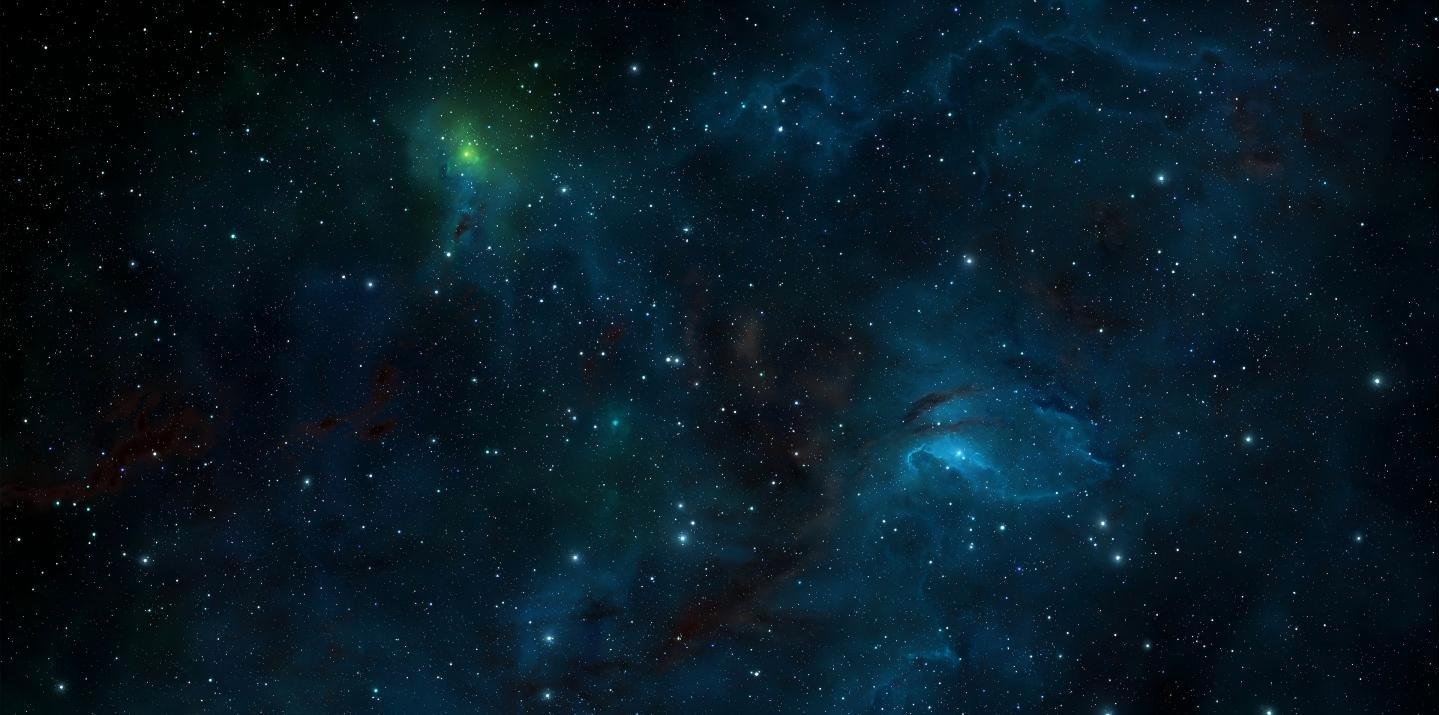
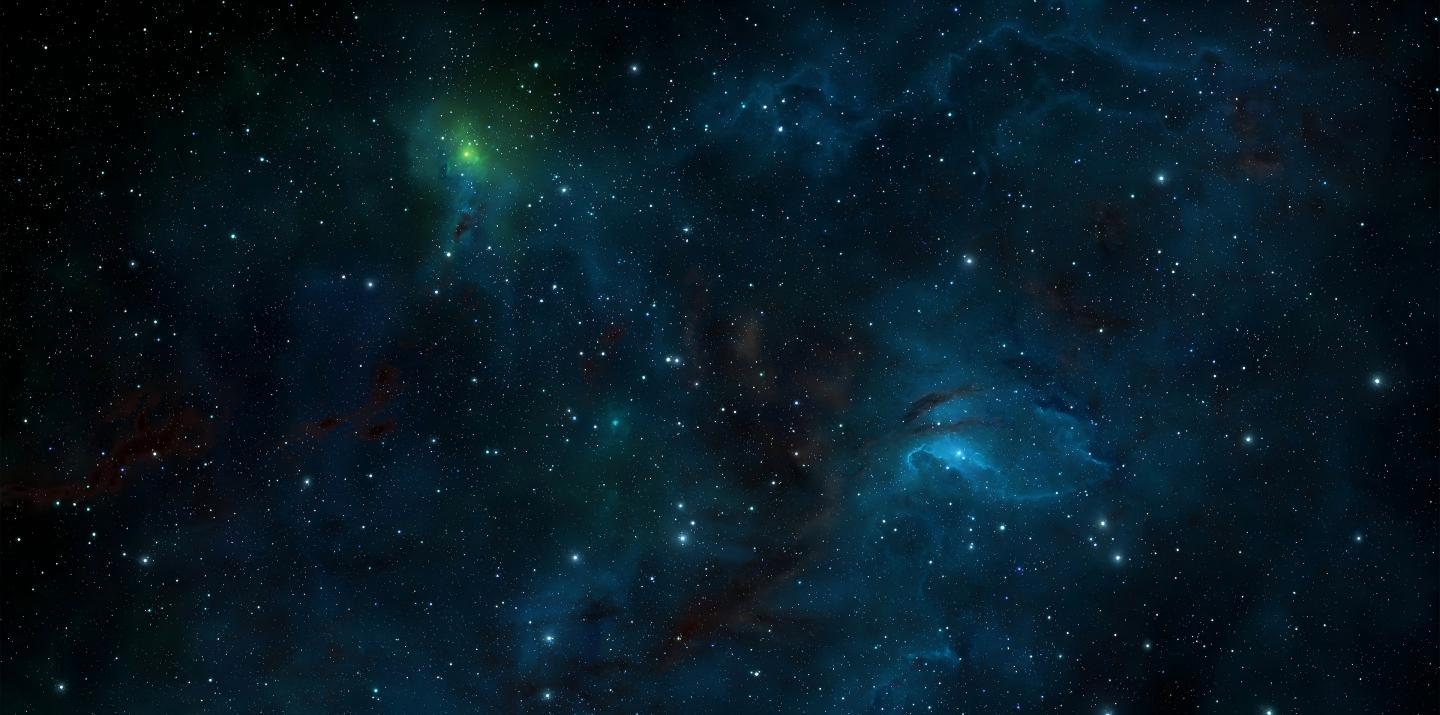
feat(第二张): 删原始大图 + 背景调暗 + 去掉蓝巨星光晕/黑洞环 + 细调入口(Alt+T)
1. 原始 PNG 全部删除
   static/planet/ 只剩页面真正用到的 7 个文件,合计 1064KB(原来约 12MB):
   bg.jpg(123KB,直接用原图另存的名字,没有二次压缩)
   sun 334 / cold 161 / earth 157 / hot 138 / gas 135 / blackhole 16 KB

2. 背景调暗:不动图片文件,压一层暗色遮罩
   新参数 [params.intro.solar] bg_dim(默认 0.45,0 = 原样,1 = 全黑)
   → partial 写成 .solar-art 的 --bg-dim,遮罩是中心浅、四角深的径向渐变

3. 去掉两个特效
   · 蓝巨星:光晕来自 .solar-sun 的 @keyframes 动画(动画优先级高于普通声明,
     只写 box-shadow:none 压不住)→ has-tex 时连 animation 一起关掉,box-shadow 归 none
   · 黑洞:那是 CSS 画的吸积环(.solar-planet::after)→ 贴图版统一关掉所有 CSS 装饰
     (::before 虚线锁定环、::after 吸积环、皮肤、星环)
   · 顺带:贴图不再常驻 drop-shadow(保持贴图原样),只在磁吸锁定时才亮一下作为反馈

4. 细调入口(每个行星的位置 xy / 大小 w / 旋转 rot,以及恒星 x y w)
   · Alt + T 随时开关(网址加 ?tune 也会自动打开)—— 平时不产生任何 DOM
   · 每行 = 四根滑条 + 四个数字框:滑条步长 0.001(1440px 面板上约 1.4px),
     数字框可以直接敲精确值,敲完立刻生效;方向键也能继续微调
   · 「复制 TOML」生成能直接贴回 hugo.toml 的整段(solar + 五颗行星,含 tex/kind)

验收:tools/verify/tune-check.mjs
- static/planet 合计 1064KB ✓ 恒星 box-shadow none ✓ 黑洞环 display:none ✓
- 贴图 filter none ✓ Alt+T 打开面板(6 行 / 23 个数字框)✓
- 数字框输入 0.186 → 行星宽度 173 → 268px(=1440×0.186)✓ 页内零报错 ✓

diff --git a/assets/js/page-solar-tune.js b/assets/js/page-solar-tune.js
@@ -1,23 +1,32 @@
 /* ============================================================
-   行星大小 / 位置 微调面板(page-solar.js 的配套,只有 ?tune 时才创建)
+   行星微调面板(page-solar.js 的配套):位置 x/y、大小 w、旋转 rot
    ─────────────────────────────────────────────────────────────
-   用途:贴图版的构图靠眼睛调最准,所以给一个滑条面板:
-     · 网址后面加 ?tune    → 面板出现(线上也能用:https://tuagfey.com/?tune)
-     · 拖滑条 → 实时重排(写 window.__solarTune,page-solar.js 会读)
-     · 「复制 TOML」→ 生成可以直接贴进 hugo.toml 的片段
-   面板只在 ?tune 时存在,平时零开销、零样式影响。
+   两种打开方式:
+     · 网址加 ?tune            → 自动打开(线上也能用:https://tuagfey.com/?tune)
+     · 按 Alt + T              → 随时开关(平时不加载任何 DOM,零影响)
+   每一行 = 一个星体,四根滑条 + 一个可输入的数字框:
+     · 滑条步长 0.001(1440px 宽的面板上约 1.4px),方向键还能再微调
+     · 数字框可以直接敲精确值,敲完立刻生效
+   点「复制 TOML」→ 生成能直接贴回 hugo.toml 的片段(含恒星那三行)
+   值写在 window.__solarTune,page-solar.js 每次重排都会读它。
    ============================================================ */
 (function () {
   "use strict";
 
-  if (location.search.indexOf("tune") < 0) return;
-
+  var WANT = location.search.indexOf("tune") >= 0;
   var FIELDS = [
-    { f: "x", label: "x", min: 0, max: 1, step: 0.002 },
-    { f: "y", label: "y", min: 0, max: 1, step: 0.002 },
-    { f: "w", label: "宽", min: 0.02, max: 0.6, step: 0.002 },
-    { f: "rot", label: "旋转", min: -180, max: 180, step: 1 }
+    { f: "x", label: "x", min: 0, max: 1, step: 0.001, dflt: 0.5 },
+    { f: "y", label: "y", min: 0, max: 1, step: 0.001, dflt: 0.5 },
+    { f: "w", label: "宽", min: 0.02, max: 0.7, step: 0.001, dflt: 0.12 },
+    { f: "rot", label: "旋转", min: -180, max: 180, step: 0.5, dflt: 0 }
   ];
+  var SUN_FIELDS = [
+    { f: "x", label: "x", min: 0, max: 1, step: 0.001, dflt: 0.19 },
+    { f: "y", label: "y", min: 0, max: 1, step: 0.001, dflt: 0.34 },
+    { f: "w", label: "宽", min: 0.05, max: 0.7, step: 0.001, dflt: 0.26 }
+  ];
+
+  var panel = null;
 
   function el(tag, cls, html) {
     var e = document.createElement(tag);
@@ -25,133 +34,142 @@
     if (html != null) e.innerHTML = html;
     return e;
   }
+  function attrNum(node, name, dflt) {
+    if (!node) return dflt;
+    var v = parseFloat(node.getAttribute(name));
+    return isFinite(v) ? v : dflt;
+  }
+  function fmt(v) { return (Math.round(v * 1000) / 1000).toString(); }
+  function api() { return window.CDPages && window.CDPages.get ? window.CDPages.get("growth") : null; }
 
-  function mount() {
+  function build() {
+    var a = api();
     var solar = document.querySelector("[data-solar]");
-    var api = window.CDPages && window.CDPages.get ? window.CDPages.get("growth") : null;
-    if (!solar || !api) { setTimeout(mount, 400); return; }
+    if (!a || !solar) return null;
 
     var TUNE = window.__solarTune || (window.__solarTune = {});
-    var panel = el("div", "solar-tune");
+    var p = el("div", "solar-tune");
     var head = el("div", "solar-tune__head",
-      "<b>行星微调</b><span>拖完点「复制 TOML」贴回 hugo.toml</span>");
+      "<b>行星微调</b><span>滑条 / 数字框都能改 · Alt+T 关闭</span>");
     var copyBtn = el("button", "solar-tune__btn", "复制 TOML");
     var resetBtn = el("button", "solar-tune__btn", "复位");
     head.appendChild(copyBtn);
     head.appendChild(resetBtn);
-    panel.appendChild(head);
+    p.appendChild(head);
 
     var out = el("textarea", "solar-tune__out");
     out.readOnly = true;
-    out.rows = 6;
-
+    out.rows = 7;
     var rows = [];
 
-    /* 恒星 */
-    var sunNode = api.sunNode;
-    if (sunNode) {
-      var sr = el("div", "solar-tune__row");
-      sr.appendChild(el("b", null, "★ 恒星(蓝巨星)"));
-      var sunInputs = {};
-      [["x", 0, 1, 0.002], ["y", 0, 1, 0.002], ["w", 0.05, 0.6, 0.002]].forEach(function (d) {
-        var box = el("label");
-        box.appendChild(el("i", null, d[0]));
-        var inp = document.createElement("input");
-        inp.type = "range"; inp.min = d[1]; inp.max = d[2]; inp.step = d[3];
-        inp.value = String(attr(sunNode, "data-" + d[0], d[0] === "w" ? 0.26 : 0.3));
-        inp.addEventListener("input", function () {
-          TUNE.__sun = TUNE.__sun || {};
-          TUNE.__sun[d[0]] = parseFloat(inp.value);
-          api.repaint();
-          render();
-        });
-        box.appendChild(inp);
-        box.appendChild(el("u", "val", inp.value));
-        sr.appendChild(box);
-        sunInputs[d[0]] = inp;
-      });
-      panel.appendChild(sr);
-    }
-
-    api.nodes.forEach(function (node, i) {
-      var code = node.getAttribute("data-code") || ("SS-0" + (i + 1));
-      var title = node.querySelector(".solar-title") ? node.querySelector(".solar-title").textContent.trim() : "";
+    function addRow(title, node, fields, key) {
       var row = el("div", "solar-tune__row");
-      row.appendChild(el("b", null, code + " " + title));
-      FIELDS.forEach(function (d) {
+      row.appendChild(el("b", null, title));
+      fields.forEach(function (d) {
         var box = el("label");
         box.appendChild(el("i", null, d.label));
-        var inp = document.createElement("input");
-        inp.type = "range"; inp.min = d.min; inp.max = d.max; inp.step = d.step;
-        inp.value = String(attr(node, "data-" + d.f, d.f === "w" ? 0.12 : (d.f === "rot" ? 0 : 0.5)));
-        inp.addEventListener("input", function () {
-          TUNE[code] = TUNE[code] || {};
-          TUNE[code][d.f] = parseFloat(inp.value);
-          api.repaint();
+        var cur = (TUNE[key] && isFinite(TUNE[key][d.f])) ? TUNE[key][d.f] : attrNum(node, "data-" + d.f, d.dflt);
+        var range = document.createElement("input");
+        range.type = "range"; range.min = d.min; range.max = d.max; range.step = d.step;
+        range.value = String(cur);
+        var num = document.createElement("input");
+        num.type = "number"; num.min = d.min; num.max = d.max; num.step = d.step;
+        num.value = fmt(cur);
+        function push(v) {
+          v = Math.min(d.max, Math.max(d.min, v));
+          TUNE[key] = TUNE[key] || {};
+          TUNE[key][d.f] = v;
+          range.value = String(v);
+          num.value = fmt(v);
+          api().repaint();
           render();
-        });
-        box.appendChild(inp);
-        box.appendChild(el("u", "val", inp.value));
+        }
+        range.addEventListener("input", function () { push(parseFloat(range.value)); });
+        num.addEventListener("input", function () { var v = parseFloat(num.value); if (isFinite(v)) push(v); });
+        box.appendChild(range);
+        box.appendChild(num);
         row.appendChild(box);
       });
-      panel.appendChild(row);
-      rows.push({ code: code, node: node });
-    });
-
-    panel.appendChild(out);
-    document.body.appendChild(panel);
-
-    function attr(node, name, dflt) {
-      var v = parseFloat(node.getAttribute(name));
-      return isFinite(v) ? v : dflt;
+      p.appendChild(row);
+      rows.push({ title: title, node: node, key: key, fields: fields });
     }
 
+    addRow("★ 蓝巨星", a.sunNode, SUN_FIELDS, "__sun");
+    a.nodes.forEach(function (node, i) {
+      var code = node.getAttribute("data-code") || ("SS-0" + (i + 1));
+      var t = node.querySelector(".solar-title");
+      addRow(code + " " + (t ? t.textContent.trim() : ""), node, FIELDS, code);
+    });
+
+    p.appendChild(out);
+    document.body.appendChild(p);
+
+    function val(r, f) {
+      var v = window.__solarTune[r.key] && window.__solarTune[r.key][f.f];
+      return isFinite(v) ? v : attrNum(r.node, "data-" + f.f, f.dflt);
+    }
     function render() {
       var lines = ["    [params.intro.solar]"];
-      var s = TUNE.__sun || {};
-      if (sunNode) {
-        lines.push('      sun_x = ' + num(s.x, attr(sunNode, "data-x", 0.19)));
-        lines.push('      sun_y = ' + num(s.y, attr(sunNode, "data-y", 0.34)));
-        lines.push('      sun_w = ' + num(s.w, attr(sunNode, "data-w", 0.26)));
-      }
+      lines.push('      bg = "/planet/bg.jpg"');
+      lines.push('      bg_dim = 0.45');
+      lines.push('      sun = "/planet/sun.webp"');
+      var sun = rows[0];
+      lines.push("      sun_x = " + fmt(val(sun, SUN_FIELDS[0])));
+      lines.push("      sun_y = " + fmt(val(sun, SUN_FIELDS[1])));
+      lines.push("      sun_w = " + fmt(val(sun, SUN_FIELDS[2])));
       lines.push("");
-      rows.forEach(function (r) {
-        var t = TUNE[r.code] || {};
-        lines.push("    [[params.intro.decks.growth]]   # " + (r.node.querySelector(".solar-title") || {}).textContent);
-        lines.push('      code = "' + r.code + '"');
-        lines.push("      x = " + num(t.x, attr(r.node, "data-x", 0.5)));
-        lines.push("      y = " + num(t.y, attr(r.node, "data-y", 0.5)));
-        lines.push("      w = " + num(t.w, attr(r.node, "data-w", 0.12)));
-        if (t.rot || attr(r.node, "data-rot", 0)) lines.push("      rot = " + num(t.rot, attr(r.node, "data-rot", 0)));
+      rows.slice(1).forEach(function (r) {
+        var code = r.key;
+        lines.push("    [[params.intro.decks.growth]]   # " + r.title);
+        lines.push('      code = "' + code + '"');
+        lines.push('      tex = "' + (r.node.getAttribute("data-tex") || "") + '"');
+        FIELDS.forEach(function (f) { lines.push("      " + f.f + " = " + fmt(val(r, f))); });
+        var kind = (r.node.className.match(/solar-node--(\w+)/) || [])[1];
+        if (kind) lines.push('      kind = "' + kind + '"');
         lines.push("");
       });
       out.value = lines.join("\n");
     }
-    function num(v, dflt) { return (isFinite(v) ? v : dflt).toFixed(3).replace(/0+$/, "").replace(/\.$/, ""); }
 
     copyBtn.addEventListener("click", function () {
       out.select();
+      var done = function () { copyBtn.textContent = "已复制 ✓"; setTimeout(function () { copyBtn.textContent = "复制 TOML"; }, 1500); };
       try {
-        navigator.clipboard.writeText(out.value);
-        copyBtn.textContent = "已复制 ✓";
-      } catch (e) {
-        document.execCommand("copy");
-        copyBtn.textContent = "已复制 ✓";
-      }
-      setTimeout(function () { copyBtn.textContent = "复制 TOML"; }, 1500);
+        navigator.clipboard.writeText(out.value).then(done, function () { document.execCommand("copy"); done(); });
+      } catch (e) { document.execCommand("copy"); done(); }
     });
     resetBtn.addEventListener("click", function () {
-      for (var k in TUNE) delete TUNE[k];
-      panel.remove();
-      mount();
-      api.repaint();
+      for (var k in window.__solarTune) delete window.__solarTune[k];
+      close();
+      open();
     });
 
     render();
-    api.repaint();
-    console.log("[solar-tune] 已开启微调面板;window.__solarTune 里是当前值");
+    api().repaint();
+    return p;
   }
 
-  if (document.readyState === "loading") document.addEventListener("DOMContentLoaded", mount);
-  else mount();
+  function open() {
+    if (panel) return;
+    panel = build();
+    if (!panel) { panel = null; setTimeout(function () { if (WANT) open(); }, 400); }
+    else console.log("[solar-tune] 微调面板已打开(Alt+T 可关闭);当前值在 window.__solarTune");
+  }
+  function close() {
+    if (!panel) return;
+    panel.remove();
+    panel = null;
+  }
+  function toggle() { panel ? close() : open(); }
+
+  document.addEventListener("keydown", function (e) {
+    if (e.altKey && (e.key === "t" || e.key === "T")) { e.preventDefault(); toggle(); }
+    else if (e.key === "Escape" && panel) close();
+  });
+
+  if (WANT) {
+    if (document.readyState === "loading") document.addEventListener("DOMContentLoaded", function () { open(); });
+    else open();
+  }
+  window.__solarTunePanel = { open: open, close: close, toggle: toggle };
 })();

diff --git a/assets/css/pages.css b/assets/css/pages.css
@@ -791,11 +791,24 @@ body.statusbar-hidden .intro-panel.is-page {
    底图铺满,CSS 画的太阳/星体全部让位;
    五个磁吸热区还在(看不见,但光标锁上去照样弹 HUD 卡片)*/
 .solar-art {
+    /* 背景图整体暗化:数值越大越暗(由 hugo.toml 的 bg_dim 写进来)*/
+    --bg-dim: 0.45;
     position: absolute;
     inset: 0;
     background-size: cover;
     background-position: center;
     background-repeat: no-repeat;
+}
+
+/* 暗化用一层遮罩,不动图片文件本身;想更暗就调 bg_dim */
+.solar-art::after {
+    content: "";
+    position: absolute;
+    inset: 0;
+    background: radial-gradient(120% 100% at 50% 45%,
+            rgba(2, 5, 12, calc(var(--bg-dim) * 0.72)) 0%,
+            rgba(1, 3, 9, var(--bg-dim)) 100%);
+    pointer-events: none;
 }
 
 .solar.has-art {
@@ -825,7 +838,7 @@ body.statusbar-hidden .intro-panel.is-page {
     height: auto;
     pointer-events: none;
     transform-origin: 50% 50%;
-    filter: drop-shadow(0 0 18px rgba(120, 180, 255, 0.22));
+    /* 平时不加外发光(用户要求保持贴图原样),只在磁吸锁定时才亮 */
 }
 
 /* 有贴图时,CSS 画的那套皮肤/星环/高光全部让位 */
@@ -845,20 +858,16 @@ body.statusbar-hidden .intro-panel.is-page {
         drop-shadow(0 0 26px color-mix(in srgb, var(--intro-accent) 40%, transparent));
 }
 
-/* 恒星贴图:自己带光晕,这里只补一层柔光垫在后面 */
+/* 恒星贴图:贴图自己就是完整的星体,这里把 CSS 画的那套全部关掉。
+   ★ 注意 animation 必须一起关:上面 .solar-sun 的光晕是 @keyframes 动画在动的,
+     动画优先级高于普通声明,只写 box-shadow:none 压不住 */
 .solar-sun.has-tex {
     background: none;
     box-shadow: none;
+    animation: none;
 }
 
-.solar-sun.has-tex::before {
-    content: "";
-    position: absolute;
-    inset: -38%;
-    border-radius: 50%;
-    background: radial-gradient(circle, rgba(150, 205, 255, 0.34) 0%, rgba(110, 170, 255, 0.16) 42%, rgba(90, 140, 255, 0) 72%);
-    pointer-events: none;
-}
+/* 蓝巨星贴图自带光,不再额外加光晕(用户要求去掉)*/
 
 .solar-sun.has-tex::after {
     display: none;
@@ -884,7 +893,7 @@ body.statusbar-hidden .intro-panel.is-page {
     right: 12px;
     top: 12px;
     z-index: 9999;
-    width: min(420px, 92vw);
+    width: min(520px, 94vw);
     max-height: 94vh;
     overflow: auto;
     padding: 10px 12px 12px;
@@ -951,7 +960,17 @@ body.statusbar-hidden .intro-panel.is-page {
 }
 
 .solar-tune__row input[type=range] {
-    width: 62px;
+    width: 56px;
+}
+
+.solar-tune__row input[type=number] {
+    width: 58px;
+    padding: 1px 3px;
+    border: 1px solid rgba(127, 240, 255, 0.3);
+    border-radius: 3px;
+    background: rgba(0, 0, 0, 0.4);
+    color: #dff6ff;
+    font: inherit;
 }
 
 .solar-tune__row .val {
@@ -978,4 +997,10 @@ body.statusbar-hidden .intro-panel.is-page {
 /* 贴图版的行星按钮不做圆形裁切 */
 .solar-node.has-tex .solar-planet {
     border-radius: 0;
+}
+
+/* 贴图版:关掉 CSS 画的一切装饰(虚线锁定环 ::before / 黑洞吸积环 ::after)*/
+.solar-node.has-tex .solar-planet::before,
+.solar-node.has-tex .solar-planet::after {
+    display: none;
 }

diff --git a/layouts/partials/pages/growth.html b/layouts/partials/pages/growth.html
@@ -7,7 +7,7 @@
 {{- $star := site.Params.intro.solar | default dict -}}
 <div class="solar{{ with $star.bg }} has-bg{{ end }}" data-solar="{{ .key }}">
     {{- with $star.bg }}
-    <div class="solar-art" style="background-image:url(&#39;{{ . }}&#39;)" aria-hidden="true"></div>
+    <div class="solar-art" style="background-image:url(&#39;{{ . }}&#39;);--bg-dim:{{ $star.bg_dim | default 0.45 }}" aria-hidden="true"></div>
     {{- end }}
     <div class="solar-sky" aria-hidden="true"></div>
     <div class="solar-neb" aria-hidden="true"></div>
@@ -24,7 +24,7 @@
 
     {{- range $i, $p := .items }}
     <div class="solar-node solar-node--{{ $p.kind | default "rocky" }}{{ if $p.tex }} has-tex{{ end }}{{ if $p.ring }} has-ring{{ end }}"
-        data-code="{{ $p.code }}" data-x="{{ $p.x }}" data-y="{{ $p.y }}" data-w="{{ $p.w | default 0.12 }}"
+        data-code="{{ $p.code }}" data-tex="{{ $p.tex }}" data-x="{{ $p.x }}" data-y="{{ $p.y }}" data-w="{{ $p.w | default 0.12 }}"
         data-rot="{{ $p.rot | default 0 }}" data-depth="{{ $p.depth | default 0.7 }}">
         <div class="solar-body">
             <button type="button" class="solar-planet" data-magnetic aria-label="{{ $p.title }}:{{ $p.text }}">
